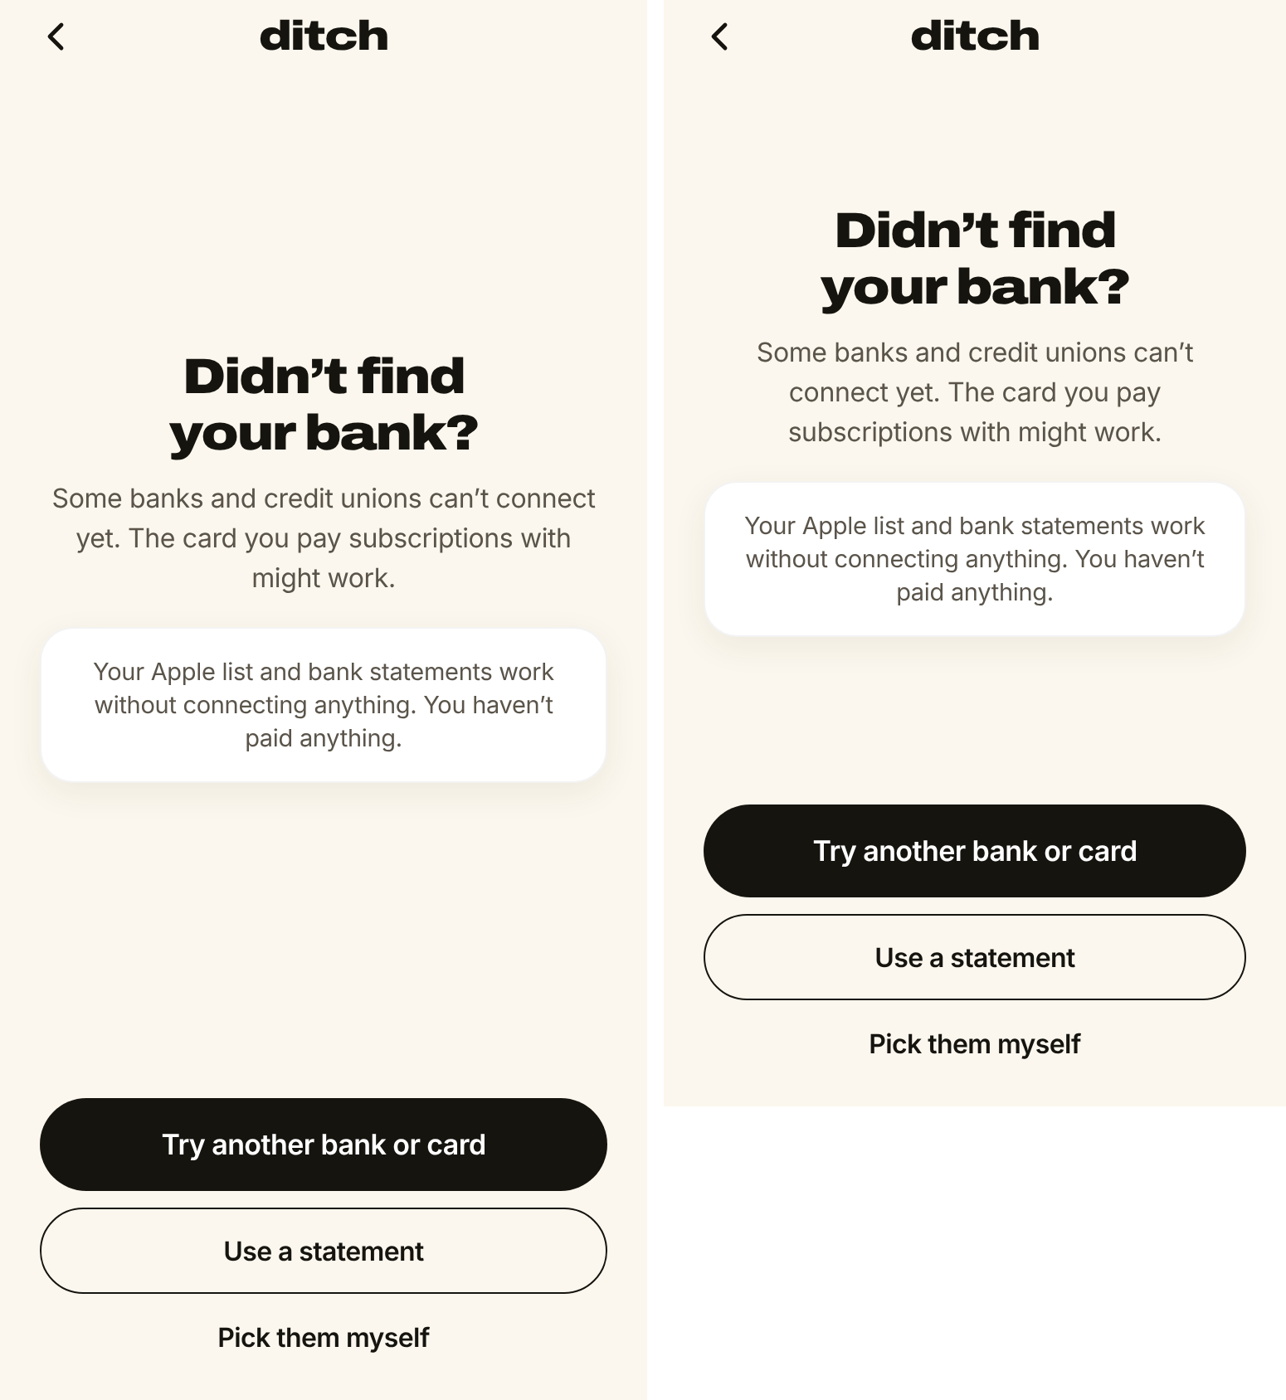
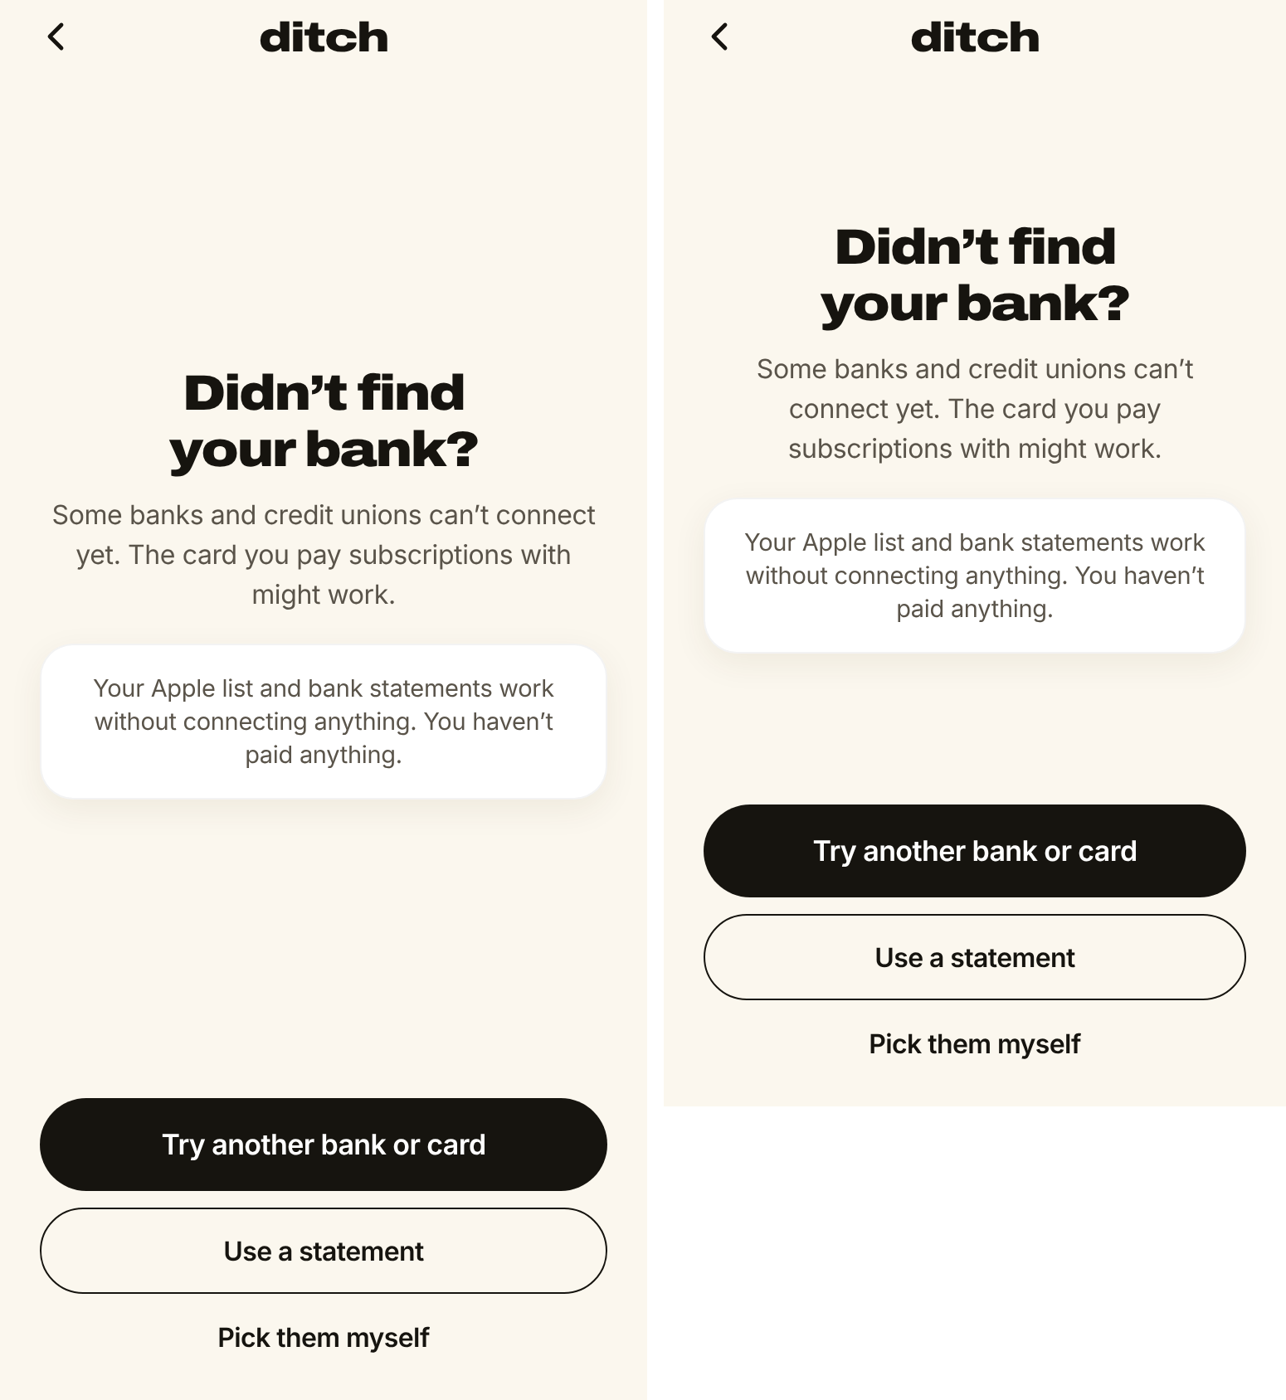
'Didn't find your bank?': message exactly centred, wordmark level with the back arrow (measured)
Claude-Session: https://claude.ai/code/session_01Q8GFjWCZXwnj2nAcxjTkxh

diff --git a/src/app/bank/missing.tsx b/src/app/bank/missing.tsx
@@ -39,7 +39,8 @@ export default function BankMissing() {
     >
       {/* An empty state: centred text, the ditch wordmark in the top bar (owner, Nov 20: plain screens get the
           brand mark, the text logo at the top, not the app icon). */}
-      <View style={{ flex: 1, justifyContent: 'center', alignItems: 'center', paddingVertical: 24 }}>
+      {/* Measured (Nov 20): 44 on top, 24 below puts the block exactly midway between the top bar and the buttons. */}
+      <View style={{ flex: 1, justifyContent: 'center', alignItems: 'center', paddingTop: 44, paddingBottom: 24 }}>
         <Txt v="title" accessibilityRole="header" center style={{ fontSize: 30, lineHeight: 34 }}>
           {'Didn’t find\nyour bank?'}
         </Txt>

diff --git a/src/bank/Parts.tsx b/src/bank/Parts.tsx
@@ -56,7 +56,8 @@ export function BankPage({ children, footer, onBack, scroll = true, brand: showB
   const head = (
     <View style={{ height: STEP_HEADER_H, flexDirection: 'row', alignItems: 'center' }}>
       {showBrand ? (
-        <View pointerEvents="none" style={{ position: 'absolute', left: 0, right: 0, top: 0, bottom: 0, alignItems: 'center', justifyContent: 'center' }}>
+        // paddingTop 2: the wordmark has no descenders, so this puts its middle level with the back arrow's.
+        <View pointerEvents="none" style={{ position: 'absolute', left: 0, right: 0, top: 0, bottom: 0, paddingTop: 2, alignItems: 'center', justifyContent: 'center' }}>
           <Wordmark size={25} />
         </View>
       ) : null}
